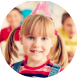
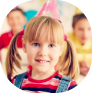
algumas alterações na home

diff --git a/Home/index.html b/Home/index.html
@@ -64,7 +64,13 @@
         <!-- Logo -->
         <div class="icone">
           <a class="navbar-brand" href="#">
-            <img src="./img/bitmap.svg" class="logo" alt="Logo" width="220" height="51" />
+            <img
+              src="./img/bitmap.svg"
+              class="logo"
+              alt="Logo"
+              width="220"
+              height="51"
+            />
           </a>
         </div>
         <!-- Pesquisa -->
@@ -158,52 +164,52 @@
     </div>
     <!-- categorias -->
     <section class="container categorias d-flex">
-      <div class style="width: 18rem">
+      <div class="" style="width: 18rem">
         <img
-          src="./img/festa-infantil-61344 2.png"
-          class="d-block w-100 img-fluid"
+          src="./img/festa-infantil-61344.png"
+          class="d-block categorias-item img-fluid rounded-circle"
           alt="..."
         />
       </div>
-      <div style="width: 18rem">
+      <div class="" style="width: 18rem">
         <img
           src="./img/stand-up-comedy-neon-sign-with-microphone-and-red-vector-19949351-800x445 2.png"
-          class="d-block w-100 img-fluid"
+          class="d-block categorias-item w-100 img-fluid"
           alt="..."
         />
       </div>
-      <div style="width: 18rem">
+      <div class="" style="width: 18rem">
         <img
           src="./img/esportes.png"
-          class="d-block w-100 img-fluid"
+          class="d-block categorias-item w-100 img-fluid"
           alt="..."
         />
       </div>
-      <div style="width: 18rem">
+      <div class="" style="width: 18rem">
         <img
           src="./img/download 2.png"
-          class="d-block w-100 img-fluid"
+          class="d-block categorias-item w-100 img-fluid"
           alt="..."
         />
       </div>
-      <div style="width: 18rem">
+      <div class="" style="width: 18rem">
         <img
           src="./img/images 1.png"
-          class="d-block w-100 img-fluid"
+          class="d-block categorias-item w-100 img-fluid"
           alt="..."
         />
       </div>
-      <div style="width: 18rem">
+      <div class="" style="width: 18rem">
         <img
           src="./img/como-organizar-um-evento-gastronomico-de-sucesso 1.png"
-          class="d-block w-100"
+          class="d-block categorias-item w-100"
           alt="..."
         />
       </div>
-      <div style="width: 18rem">
+      <div class="" style="width: 18rem">
         <img
           src="./img/palestra-auditorio-scaled 1.png"
-          class="d-block w-100 img-fluid"
+          class="d-block categorias-item w-100 img-fluid"
           alt="..."
         />
       </div>
@@ -373,7 +379,7 @@
         <div class="col">
           <img src="./img/bitmap.svg" class="logo" alt="" />
         </div>
-        <div class="col d-block">
+        <div class="col d-flex flex-column">
           <h4>Ajuda</h4>
           <a href="#">Central de ajuda</a>
           <a href="#">Compradores e participantes</a>

diff --git a/Home/css/style.css b/Home/css/style.css
@@ -93,12 +93,25 @@ nav {
 }
 
 /* css Main */
+.carousel{
+max-height: 20rem;
+}
+
+.carousel-item{
+ max-height: 20rem;
+}
+
 main {
-  padding-top: 15px;
+  padding-top: 0.5rem;
 }
 
 .cards-main {
-  padding-left: 10px;
+  padding-left:0.5rem;
+}
+
+.categorias-item{
+  width: 10rem;
+  height: 10rem;
 }
 
 /* css footer */
@@ -106,6 +119,7 @@ footer {
   background-color: #4b0082;
   width: 100%;
   padding: 30px;
+  color: azure;
 }
 
 .logo {

diff --git a/meusEventos/style-meusEventos.css b/meusEventos/style-meusEventos.css
@@ -104,6 +104,7 @@ footer{
   background-color: #4B0082;
   width: 100%;
   padding:30px;
+  color: azure;
 }
 
 .logo{
